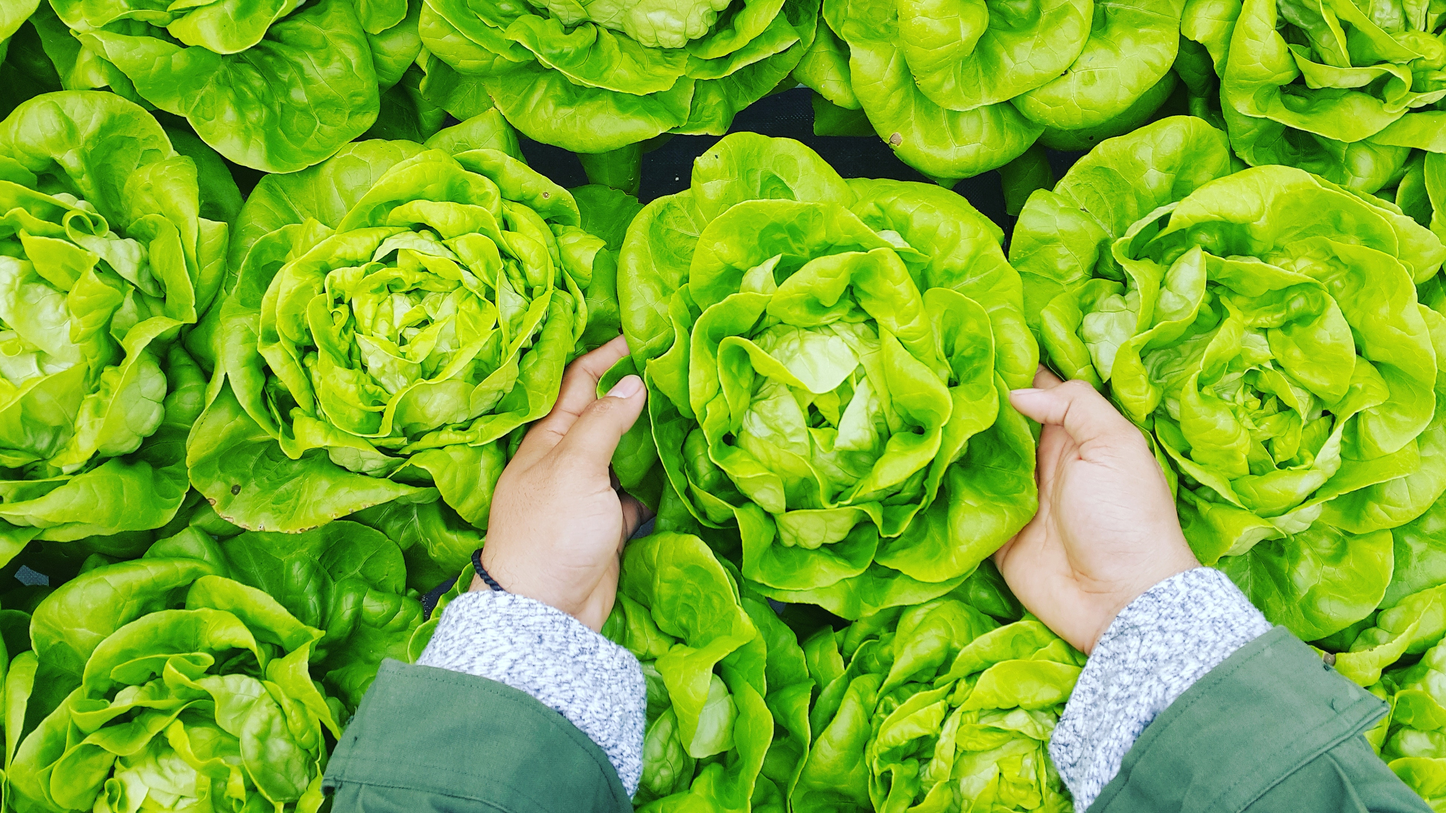
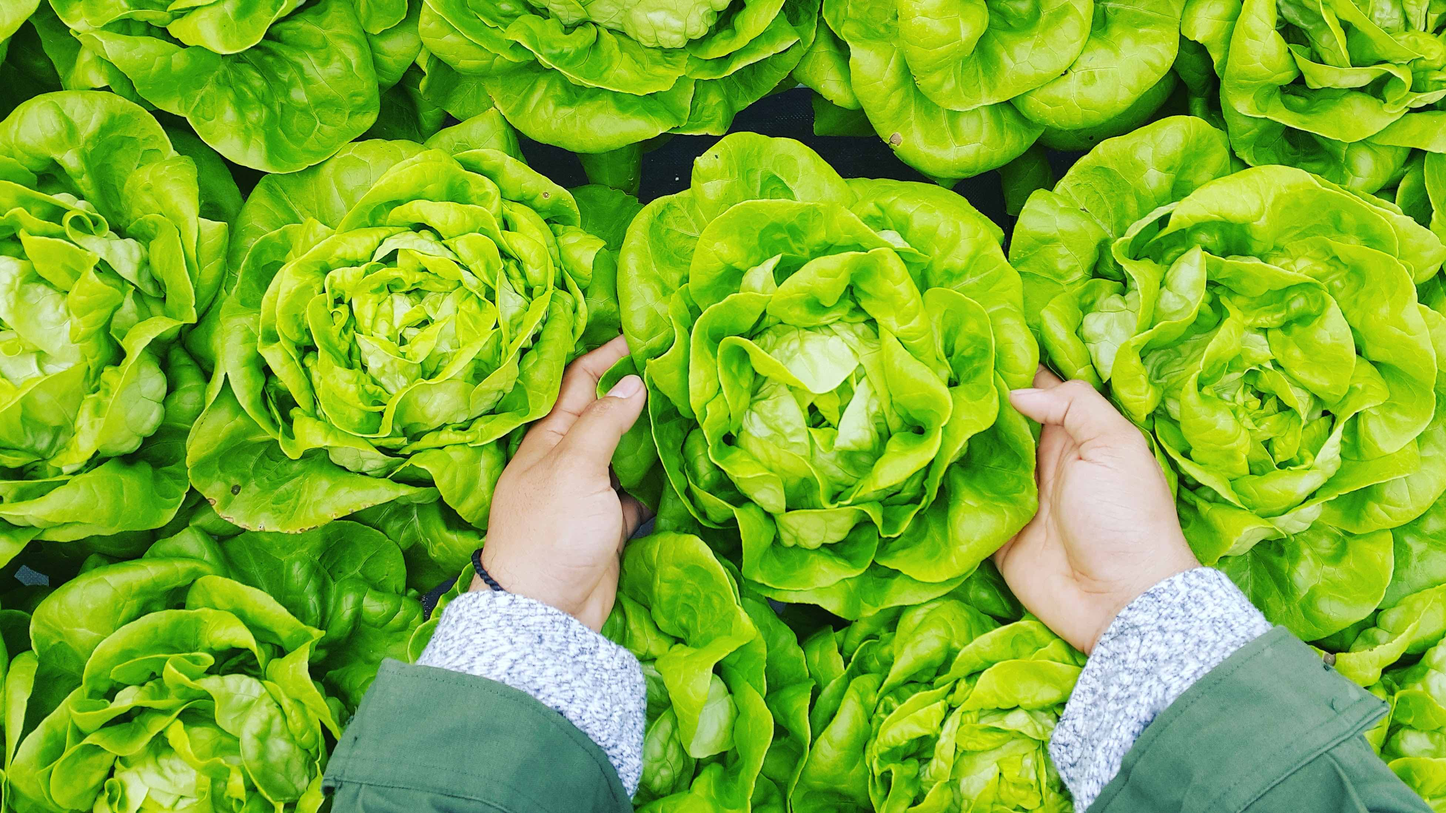
fixed API_ENDPOINT typo and compressed hero image

diff --git a/src/components/LandingPage/LandingPage.css b/src/components/LandingPage/LandingPage.css
@@ -85,15 +85,6 @@
   background: rgba( 20, 224, 133, 1 );
 }
 
-/* .zip-form {
-    padding: 10px;
-}
-
-.zip-form input {
-    border: 1px solid gray;
-    background-color: rgb(218, 232, 218);
-} */
-
 .zip-form button {
     cursor: pointer;
     color: #168042;

diff --git a/src/config.js b/src/config.js
@@ -1,4 +1,4 @@
 export default {
-    API_ENDPOINT: 'https://enigmatic-shelf-57504.herokuapp.com//api',
+    API_ENDPOINT: 'https://enigmatic-shelf-57504.herokuapp.com/api',
     TOKEN_KEY: 'food-share-client-auth-token'
 }
